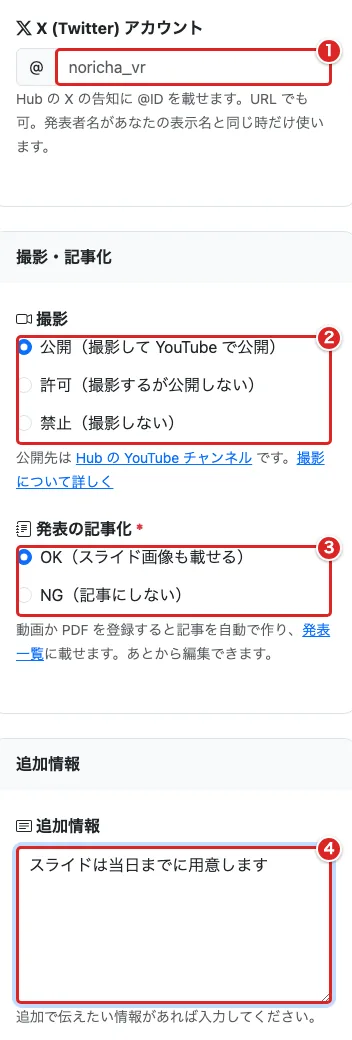
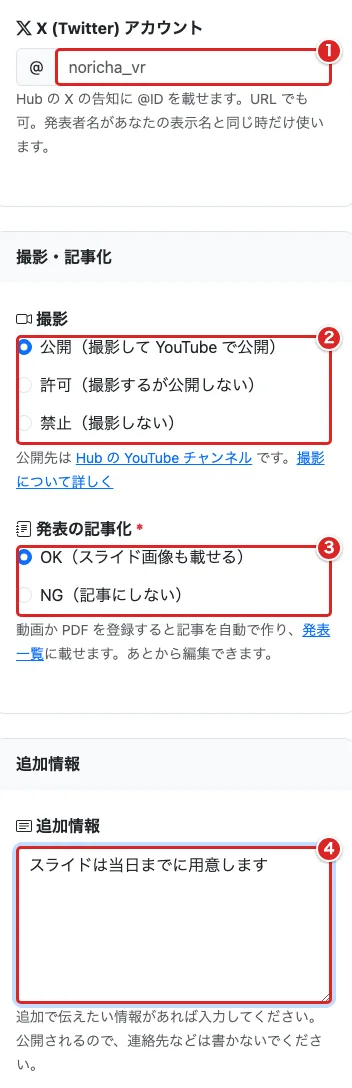
追加情報の欄に公開される旨を書く

diff --git a/app/event/forms/event_detail.py b/app/event/forms/event_detail.py
@@ -71,7 +71,7 @@ class EventDetailForm(EventDetailMediaFormMixin, RecordingPolicyFormMixin, forms
         widget=forms.Textarea(attrs={
             'class': 'form-control', 'rows': 6, 'aria-describedby': 'id_additional_info_help',
         }),
-        help_text='追加で伝えたい情報があれば入力してください。',
+        help_text='追加で伝えたい情報があれば入力してください。公開されるので、連絡先などは書かないでください。',
     )
     h1 = forms.CharField(
         label='タイトル(H1)',
